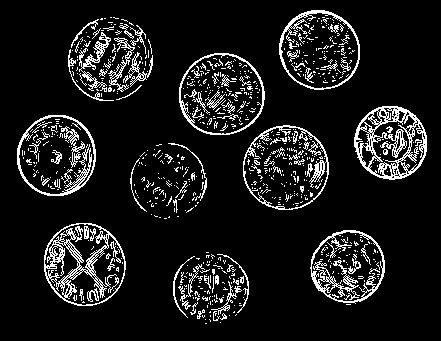
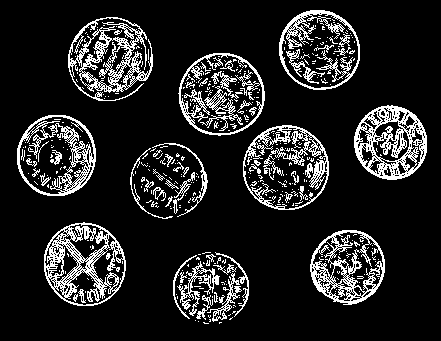
THIS IS INSANE

diff --git a/Ass4/task2.cpp b/Ass4/task2.cpp
@@ -32,7 +32,7 @@ int main( int argc, char** argv ) {
   
   for (int y = 0; y<gray_image.rows; y++) {
     for (int x = 0; x < gray_image.cols; x++) {
-    if(gray_image.at<uchar>(y, x) > 25)
+    if(gray_image.at<uchar>(y, x) > 20)
       th_image.at<uchar>(y, x) = 255;
     else
       th_image.at<uchar>(y, x) = 0;
@@ -116,21 +116,51 @@ int main( int argc, char** argv ) {
   
   imwrite("houghspace.png", hough_transform);
   
-  int considered_radius = 0;
-  int radius_count = 0;
-  
-  for(int i = 0; i < 180; i++)
-  {
-    if(Accumulator[y_max][x_max][i] > radius_count)
-    {
-      radius_count = Accumulator[y_max][x_max][i];
-      considered_radius = i + 20;
+  while(1) {
+    x_max = 0;
+    y_max = 0;
+    max_radii_sum = 0;
+    
+    for (int y = 1; y<hough_transform.rows - 1; y++) {
+      for (int x = 1; x < hough_transform.cols - 1; x++) {
+        if(hough_transform.at<uchar>(y, x) > max_radii_sum)
+        {
+          x_max = x;
+          y_max = y;
+          max_radii_sum = hough_transform.at<uchar>(y, x);
+        }
+      }
     }
+    
+    if(max_radii_sum < 50)
+      break;
+    
+    
+    int considered_radius = 0;
+    int radius_count = 0;
+  
+    for (int i = 0; i < 180; i++) {
+      if (Accumulator[y_max][x_max][i] > radius_count) {
+        radius_count = Accumulator[y_max][x_max][i];
+        considered_radius = i + 20;
+      }
+    }
+    
+    //delete Square around peak
+    for (int y = 1; y<hough_transform.rows - 1; y++) {
+      for (int x = 1; x < hough_transform.cols - 1; x++) {
+        if(abs(y - y_max) < 60 && abs(x - x_max) < 60)
+        {
+          hough_transform.at<uchar>(y, x) = 0;
+        }
+      }
+    }
+    
+  
+    cout << "Radius: " << considered_radius << " with count " << radius_count << " at x " << x_max << " y " << y_max << endl;
+  
+    circle(original, Point(x_max, y_max), considered_radius, cvScalar(0, 0, 255), 2);
   }
-  
-  cout << "Radius: " << considered_radius << " with count " << radius_count << endl;
-  
-  circle(original, Point(x_max, y_max), considered_radius, cvScalar(0, 0, 255), 2);
   imwrite("detected.png", original);
   
   for(int i = 0; i < 341; i++)
@@ -142,6 +172,7 @@ int main( int argc, char** argv ) {
     delete Accumulator[i];
   }
   delete Accumulator;
+    
   
   return 0;
 }
